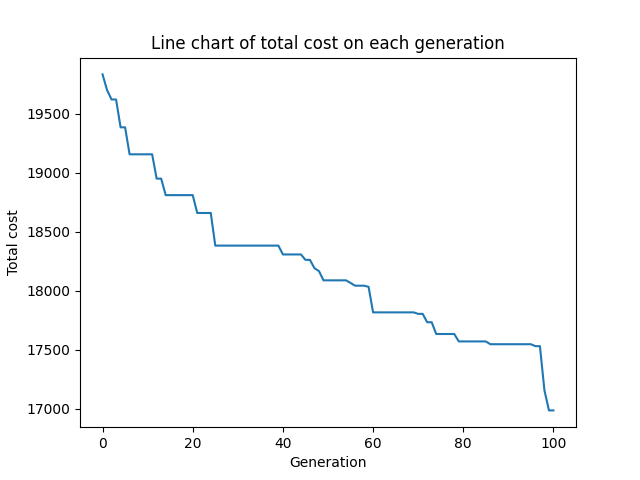
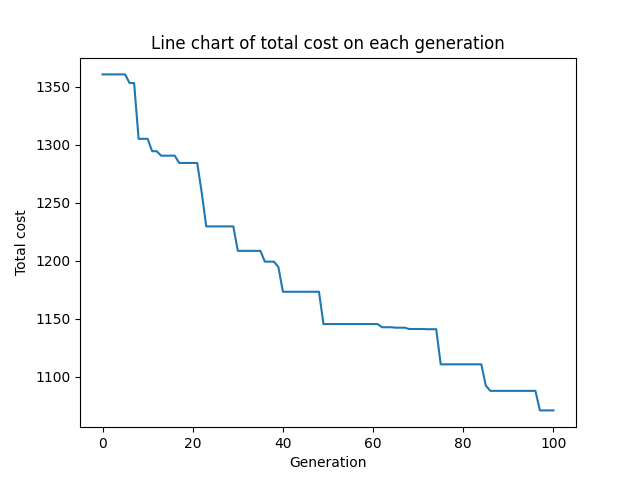
update

diff --git a/GA.py b/GA.py
@@ -16,7 +16,7 @@ with open('data.txt', 'r') as file:
 
 # Initialize the customers dictionary
 customers = {}
-num_customers = 500
+num_customers = 50
 end_point_data = num_customers + 2
 cord_data = []
 # Process each line and create the dictionary entries
@@ -36,7 +36,7 @@ for line in lines[1:end_point_data]:  # Skip the header line
     customers[cust_no] = (cust_no,xcoord, ycoord, demand, ready_time, due_date, service_time)
 
 # num_vehicles = 10
-vehicle_capacity = 200
+vehicle_capacity = 80
 
 population_size = 100
 generations = 100
@@ -65,7 +65,6 @@ def split_route(route):
     current_group = []
 
     for i in route:
-        # Check if adding the current demand exceeds 80
         if total_demand + customers[i][3] <= vehicle_capacity:
             current_group.append(i)
             total_demand += customers[i][3]
@@ -74,7 +73,6 @@ def split_route(route):
             current_group = [i]
             total_demand = customers[i][3]
 
-    # Append the last group
     if current_group:
         demand_groups.append(current_group)
     return demand_groups
@@ -124,6 +122,8 @@ def generate_population(capacity,set_customer,population_size):
         flattened_list.append(total_value)
         population.append(flattened_list)
     return population
+
+# OX1 crossover
 def crossover(parentA, parentB):
     parentA = parentA[:-1]
     parentB = parentB[:-1]
@@ -165,30 +165,20 @@ def generate_newgeneration(parent_generation,remain_ratio):
             del parent_generation[elite_index]
             new_generation.append(elite_child)
     count_pvc = 0
-    acp_cros = int(((len(parent_generation))/2) * pcv)
     list_parent = sorted(parent_generation, key = lambda x: x[-1])
     cut = int((len(parent_generation))/2)
     list_parent = list_parent[:cut]
     while True:
         if len(new_generation) == origin_goal_len:
             break
-        
         #get random two parent
         index = random.sample(range(0,len(list_parent)),2)
-
         route1 = list_parent[index[0]]
         route2 = list_parent[index[1]]
-
-        #apply crossover rate
-        if count_pvc >= acp_cros:
-            new_generation.append(route1)
-            new_generation.append(route2)
-            continue
-      
-        route1 = list_parent[index[0]]
-        route2 = list_parent[index[1]]
+        new_routes = [route1,route2]
         #crossover two parent
-        new_routes = crossover(route1,route2)
+        if random.random() <= pcv:
+            new_routes = crossover(route1,route2)
         new_generation.extend(new_routes)
         count_pvc += 1 
     return new_generation 
